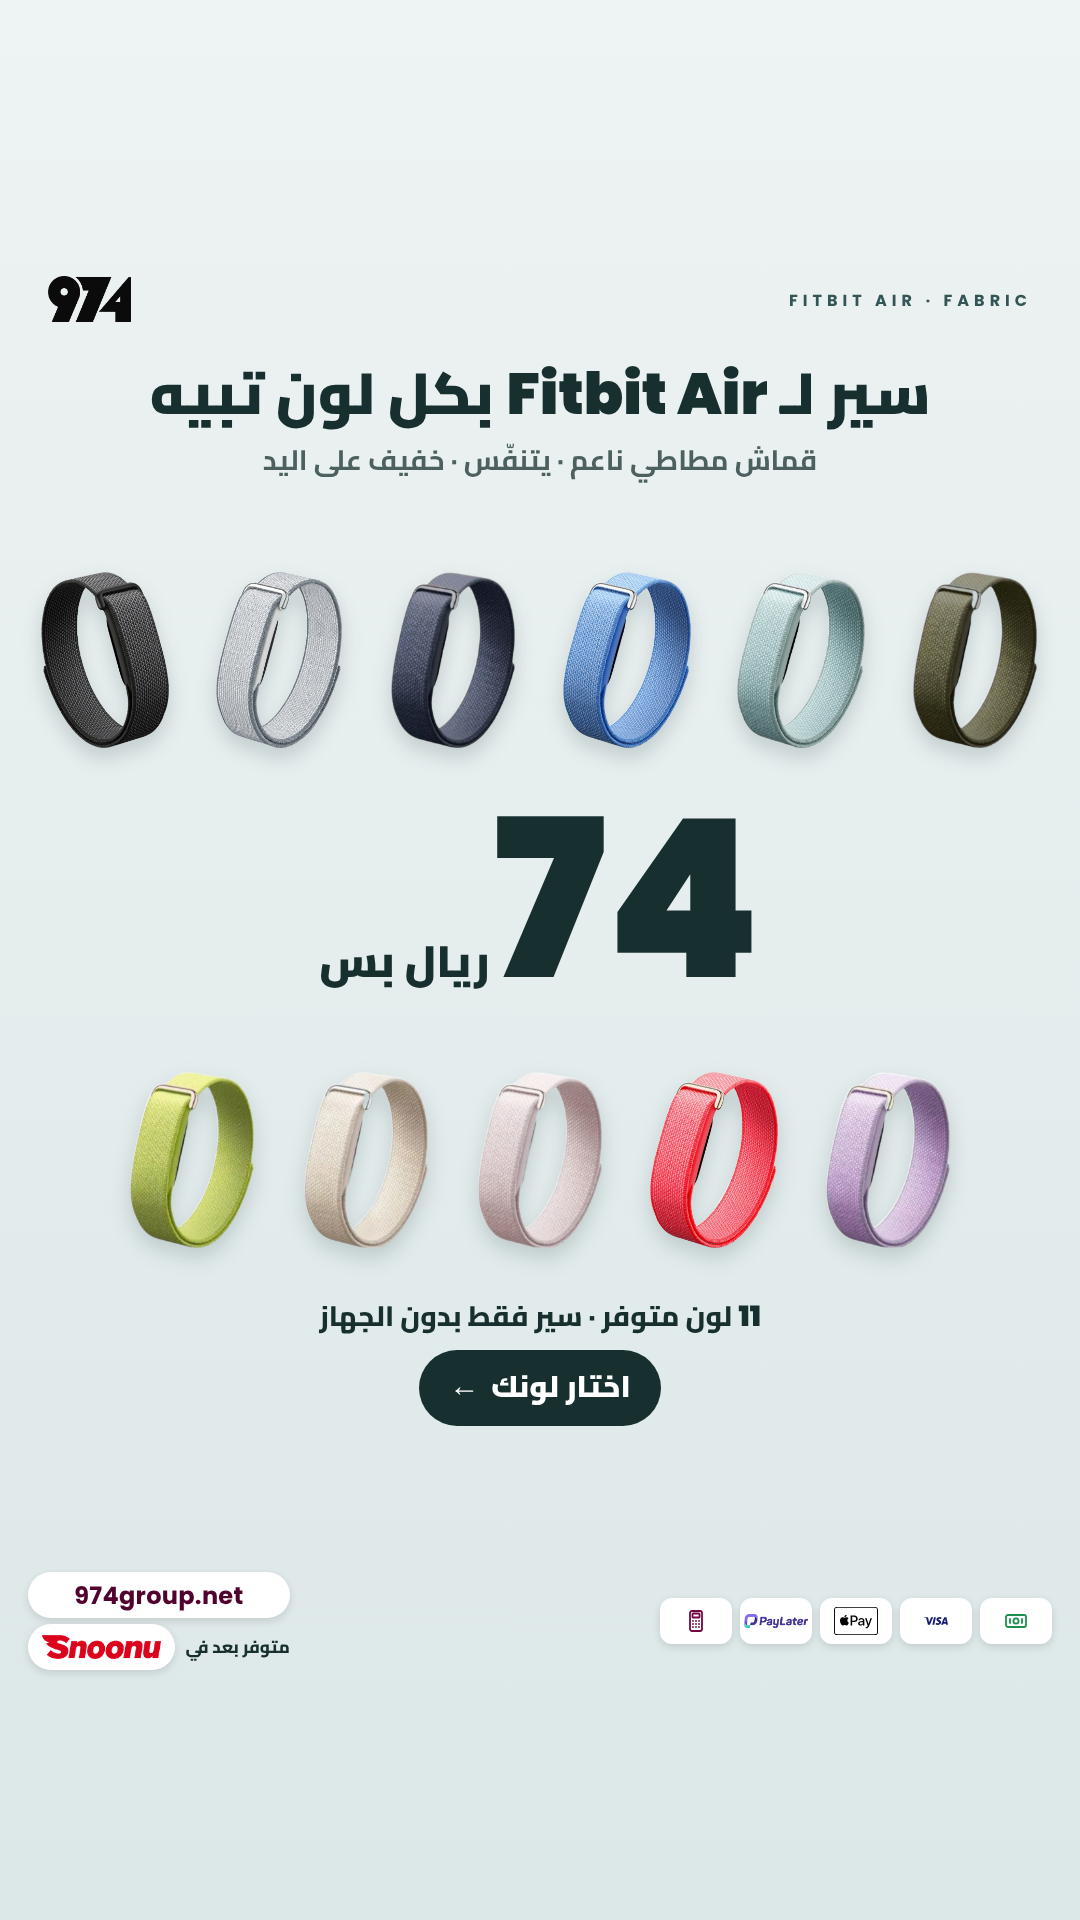
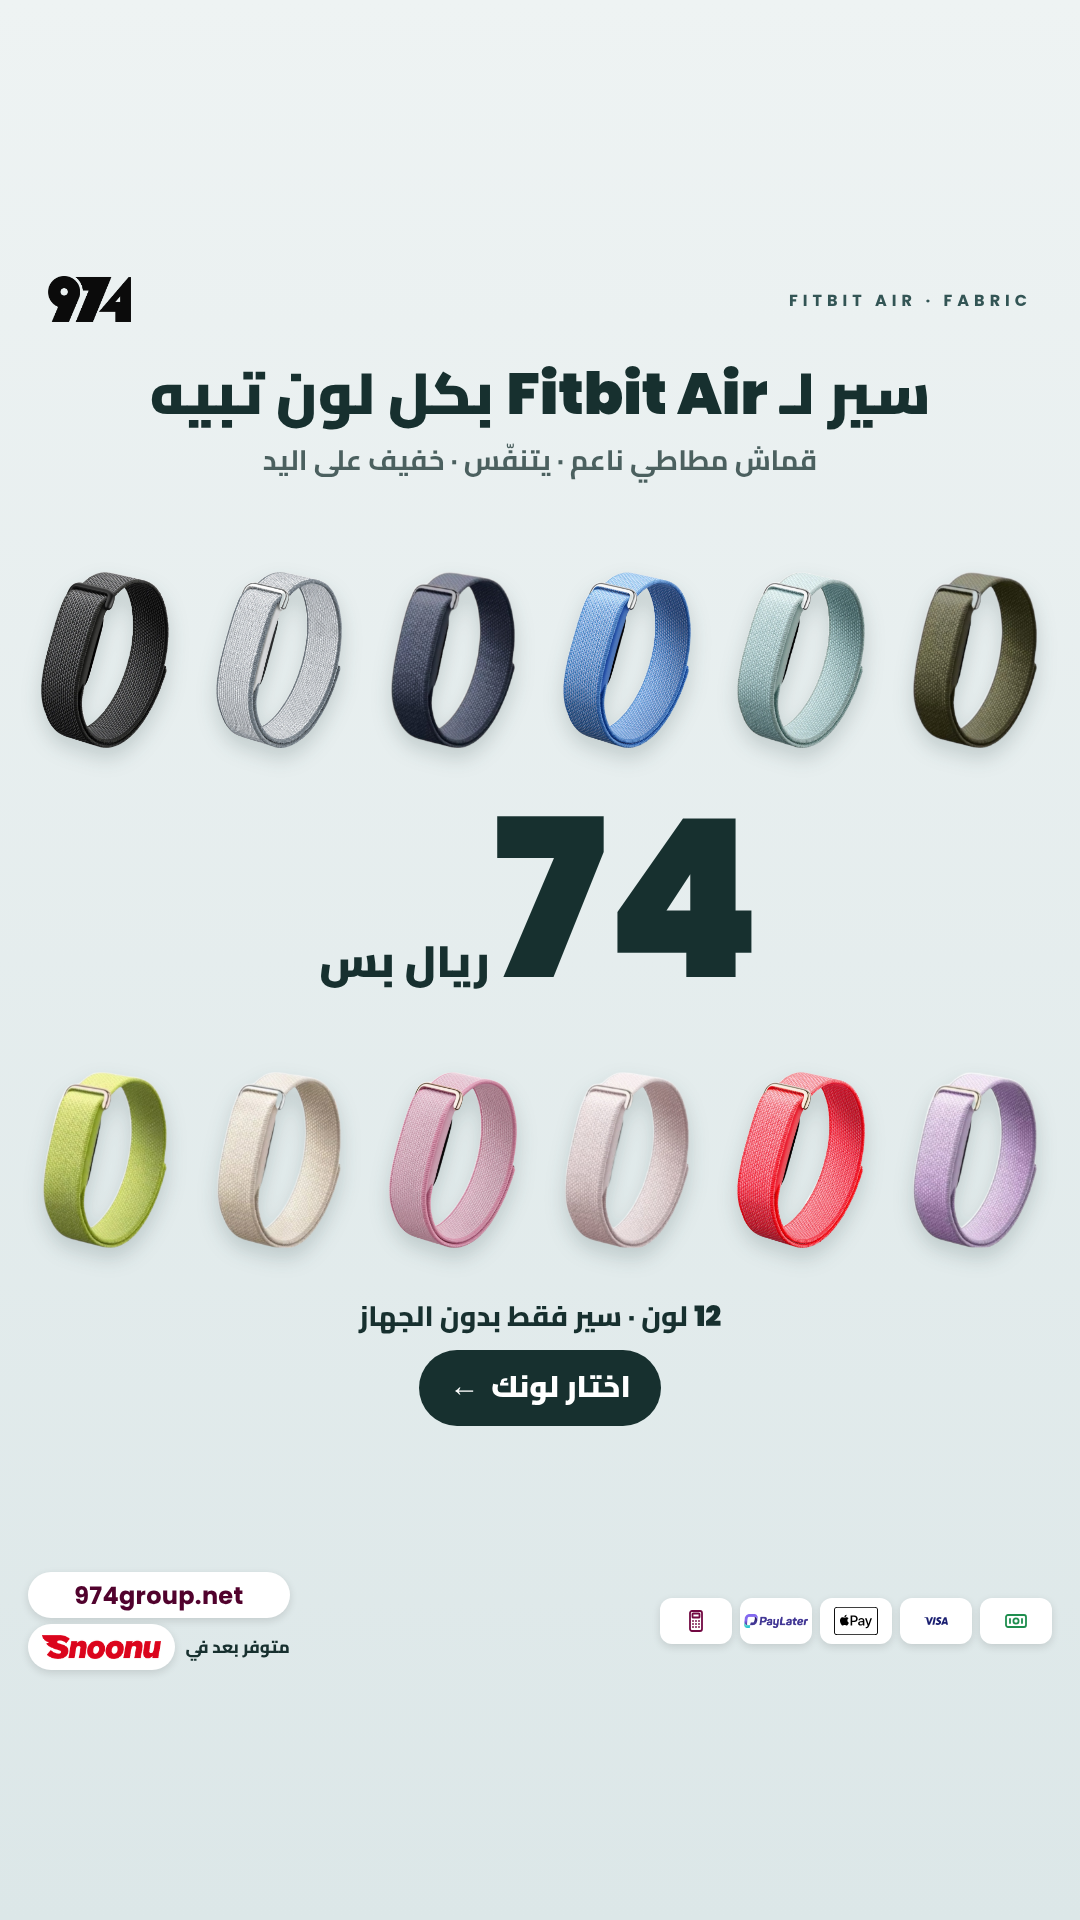
Fitbit ad: add blush pink, flip black
Claude-Session: https://claude.ai/code/session_01K6HDWNrArsGSJekW1VcEzV

Changed region(s): [[0.0306, 0.5312, 0.9778, 0.7188], [0.0306, 0.2812, 0.1528, 0.4062]]

diff --git a/posts/2026-11/ig-ads-best-sellers/out/974-ad-fitbit-story.html b/posts/2026-11/ig-ads-best-sellers/out/974-ad-fitbit-story.html
@@ -34,13 +34,13 @@ body{height:1920px!important;--o:230px} .pf{bottom:250px!important}</style></hea
   <div style="font-weight:900;font-size:58px;line-height:1.15">سير لـ <span class="en">Fitbit Air</span> بكل لون تبيه</div>
   <div style="font-weight:700;font-size:28px;opacity:.75;margin-top:6px">قماش مطاطي ناعم · يتنفّس · خفيف على اليد</div>
 </div>
-<div class="abs rw" style="top:330px"><img src="file:///home/claude/974-social/posts/2026-11/ig-ads-best-sellers/fitbit-trim/black.png"><img src="file:///home/claude/974-social/posts/2026-11/ig-ads-best-sellers/fitbit-trim/grey.png"><img src="file:///home/claude/974-social/posts/2026-11/ig-ads-best-sellers/fitbit-trim/navy.png"><img src="file:///home/claude/974-social/posts/2026-11/ig-ads-best-sellers/fitbit-trim/blue.png"><img src="file:///home/claude/974-social/posts/2026-11/ig-ads-best-sellers/fitbit-trim/fog.png"><img src="file:///home/claude/974-social/posts/2026-11/ig-ads-best-sellers/fitbit-trim/olive.png"></div>
+<div class="abs rw" style="top:330px"><img src="file:///home/claude/974-social/posts/2026-11/ig-ads-best-sellers/fitbit-trim/black-L.png"><img src="file:///home/claude/974-social/posts/2026-11/ig-ads-best-sellers/fitbit-trim/grey.png"><img src="file:///home/claude/974-social/posts/2026-11/ig-ads-best-sellers/fitbit-trim/navy.png"><img src="file:///home/claude/974-social/posts/2026-11/ig-ads-best-sellers/fitbit-trim/blue.png"><img src="file:///home/claude/974-social/posts/2026-11/ig-ads-best-sellers/fitbit-trim/fog.png"><img src="file:///home/claude/974-social/posts/2026-11/ig-ads-best-sellers/fitbit-trim/olive.png"></div>
 <div class="abs" style="left:0;right:0;top:560px;text-align:center;color:#17302F;direction:rtl">
   <span class="en" style="font-weight:900;font-size:220px;line-height:1;letter-spacing:-6px">74</span>
   <span style="font-weight:900;font-size:44px">ريال بس</span>
 </div>
-<div class="abs rw" style="top:830px"><img src="file:///home/claude/974-social/posts/2026-11/ig-ads-best-sellers/fitbit-trim/lime.png"><img src="file:///home/claude/974-social/posts/2026-11/ig-ads-best-sellers/fitbit-trim/beige.png"><img src="file:///home/claude/974-social/posts/2026-11/ig-ads-best-sellers/fitbit-trim/light-pink.png"><img src="file:///home/claude/974-social/posts/2026-11/ig-ads-best-sellers/fitbit-trim/pinky-red.png"><img src="file:///home/claude/974-social/posts/2026-11/ig-ads-best-sellers/fitbit-trim/purple.png"></div>
-<div class="abs" style="left:0;right:0;top:1060px;text-align:center;direction:rtl;font-weight:800;font-size:28px;color:#17302F"><span class="en">11</span> لون متوفر · سير فقط بدون الجهاز</div>
+<div class="abs rw" style="top:830px"><img src="file:///home/claude/974-social/posts/2026-11/ig-ads-best-sellers/fitbit-trim/lime.png"><img src="file:///home/claude/974-social/posts/2026-11/ig-ads-best-sellers/fitbit-trim/beige.png"><img src="file:///home/claude/974-social/posts/2026-11/ig-ads-best-sellers/fitbit-trim/blush.png"><img src="file:///home/claude/974-social/posts/2026-11/ig-ads-best-sellers/fitbit-trim/light-pink.png"><img src="file:///home/claude/974-social/posts/2026-11/ig-ads-best-sellers/fitbit-trim/pinky-red.png"><img src="file:///home/claude/974-social/posts/2026-11/ig-ads-best-sellers/fitbit-trim/purple.png"></div>
+<div class="abs" style="left:0;right:0;top:1060px;text-align:center;direction:rtl;font-weight:800;font-size:28px;color:#17302F"><span class="en">12</span> لون · سير فقط بدون الجهاز</div>
 <div class="abs" style="left:0;right:0;top:1120px;text-align:center"><div class="cta" style="background:#17302F;color:#fff">اختار لونك <span style="font-family:Poppins">←</span></div></div></div><div class="pf"><div class="payfoot"><div class="pills">
 <div class="ch"><div class="lg"><svg viewBox="0 0 24 24" style="height:54px" fill="none" stroke="#1E8E4E" stroke-width="1.8" stroke-linecap="round" stroke-linejoin="round"><rect x="2" y="6" width="20" height="12" rx="2"/><circle cx="12" cy="12" r="2.6"/><path d="M6 10v4M18 10v4"/></svg></div><i>كاش</i></div>
 <div class="ch"><div class="lg"><svg fill="#1A1F71" style="height:120px;width:150px" xmlns="http://www.w3.org/2000/svg" viewBox="0 0 24 24"><path d="M9.112 8.262 5.97 15.758H3.92L2.374 9.775c-.094-.368-.175-.503-.461-.658C1.447 8.864.677 8.627 0 8.479l.046-.217h3.3a.904.904 0 0 1 .894.764l.817 4.338 2.018-5.102zm8.033 5.049c.008-1.979-2.736-2.088-2.717-2.972.006-.269.262-.555.822-.628a3.66 3.66 0 0 1 1.913.336l.34-1.59a5.2 5.2 0 0 0-1.814-.333c-1.917 0-3.266 1.02-3.278 2.479-.012 1.079.963 1.68 1.698 2.04.756.367 1.01.603 1.006.931-.005.504-.602.725-1.16.734-.975.015-1.54-.263-1.992-.473l-.351 1.642c.453.208 1.289.39 2.156.398 2.037 0 3.37-1.006 3.377-2.564m5.061 2.447H24l-1.565-7.496h-1.656a.88.88 0 0 0-.826.55l-2.909 6.946h2.036l.405-1.12h2.488zm-2.163-2.656 1.02-2.815.588 2.815zm-8.16-4.84-1.603 7.496H8.34l1.605-7.496z"/></svg></div><i>Visa</i></div>

diff --git a/posts/2026-11/ig-ads-best-sellers/out/974-ad-fitbit.html b/posts/2026-11/ig-ads-best-sellers/out/974-ad-fitbit.html
@@ -34,13 +34,13 @@ body{--o:0px}</style></head><body>
   <div style="font-weight:900;font-size:58px;line-height:1.15">سير لـ <span class="en">Fitbit Air</span> بكل لون تبيه</div>
   <div style="font-weight:700;font-size:28px;opacity:.75;margin-top:6px">قماش مطاطي ناعم · يتنفّس · خفيف على اليد</div>
 </div>
-<div class="abs rw" style="top:330px"><img src="file:///home/claude/974-social/posts/2026-11/ig-ads-best-sellers/fitbit-trim/black.png"><img src="file:///home/claude/974-social/posts/2026-11/ig-ads-best-sellers/fitbit-trim/grey.png"><img src="file:///home/claude/974-social/posts/2026-11/ig-ads-best-sellers/fitbit-trim/navy.png"><img src="file:///home/claude/974-social/posts/2026-11/ig-ads-best-sellers/fitbit-trim/blue.png"><img src="file:///home/claude/974-social/posts/2026-11/ig-ads-best-sellers/fitbit-trim/fog.png"><img src="file:///home/claude/974-social/posts/2026-11/ig-ads-best-sellers/fitbit-trim/olive.png"></div>
+<div class="abs rw" style="top:330px"><img src="file:///home/claude/974-social/posts/2026-11/ig-ads-best-sellers/fitbit-trim/black-L.png"><img src="file:///home/claude/974-social/posts/2026-11/ig-ads-best-sellers/fitbit-trim/grey.png"><img src="file:///home/claude/974-social/posts/2026-11/ig-ads-best-sellers/fitbit-trim/navy.png"><img src="file:///home/claude/974-social/posts/2026-11/ig-ads-best-sellers/fitbit-trim/blue.png"><img src="file:///home/claude/974-social/posts/2026-11/ig-ads-best-sellers/fitbit-trim/fog.png"><img src="file:///home/claude/974-social/posts/2026-11/ig-ads-best-sellers/fitbit-trim/olive.png"></div>
 <div class="abs" style="left:0;right:0;top:560px;text-align:center;color:#17302F;direction:rtl">
   <span class="en" style="font-weight:900;font-size:220px;line-height:1;letter-spacing:-6px">74</span>
   <span style="font-weight:900;font-size:44px">ريال بس</span>
 </div>
-<div class="abs rw" style="top:830px"><img src="file:///home/claude/974-social/posts/2026-11/ig-ads-best-sellers/fitbit-trim/lime.png"><img src="file:///home/claude/974-social/posts/2026-11/ig-ads-best-sellers/fitbit-trim/beige.png"><img src="file:///home/claude/974-social/posts/2026-11/ig-ads-best-sellers/fitbit-trim/light-pink.png"><img src="file:///home/claude/974-social/posts/2026-11/ig-ads-best-sellers/fitbit-trim/pinky-red.png"><img src="file:///home/claude/974-social/posts/2026-11/ig-ads-best-sellers/fitbit-trim/purple.png"></div>
-<div class="abs" style="left:0;right:0;top:1060px;text-align:center;direction:rtl;font-weight:800;font-size:28px;color:#17302F"><span class="en">11</span> لون متوفر · سير فقط بدون الجهاز</div>
+<div class="abs rw" style="top:830px"><img src="file:///home/claude/974-social/posts/2026-11/ig-ads-best-sellers/fitbit-trim/lime.png"><img src="file:///home/claude/974-social/posts/2026-11/ig-ads-best-sellers/fitbit-trim/beige.png"><img src="file:///home/claude/974-social/posts/2026-11/ig-ads-best-sellers/fitbit-trim/blush.png"><img src="file:///home/claude/974-social/posts/2026-11/ig-ads-best-sellers/fitbit-trim/light-pink.png"><img src="file:///home/claude/974-social/posts/2026-11/ig-ads-best-sellers/fitbit-trim/pinky-red.png"><img src="file:///home/claude/974-social/posts/2026-11/ig-ads-best-sellers/fitbit-trim/purple.png"></div>
+<div class="abs" style="left:0;right:0;top:1060px;text-align:center;direction:rtl;font-weight:800;font-size:28px;color:#17302F"><span class="en">12</span> لون · سير فقط بدون الجهاز</div>
 <div class="abs" style="left:0;right:0;top:1120px;text-align:center"><div class="cta" style="background:#17302F;color:#fff">اختار لونك <span style="font-family:Poppins">←</span></div></div></div><div class="pf"><div class="payfoot"><div class="pills">
 <div class="ch"><div class="lg"><svg viewBox="0 0 24 24" style="height:54px" fill="none" stroke="#1E8E4E" stroke-width="1.8" stroke-linecap="round" stroke-linejoin="round"><rect x="2" y="6" width="20" height="12" rx="2"/><circle cx="12" cy="12" r="2.6"/><path d="M6 10v4M18 10v4"/></svg></div><i>كاش</i></div>
 <div class="ch"><div class="lg"><svg fill="#1A1F71" style="height:120px;width:150px" xmlns="http://www.w3.org/2000/svg" viewBox="0 0 24 24"><path d="M9.112 8.262 5.97 15.758H3.92L2.374 9.775c-.094-.368-.175-.503-.461-.658C1.447 8.864.677 8.627 0 8.479l.046-.217h3.3a.904.904 0 0 1 .894.764l.817 4.338 2.018-5.102zm8.033 5.049c.008-1.979-2.736-2.088-2.717-2.972.006-.269.262-.555.822-.628a3.66 3.66 0 0 1 1.913.336l.34-1.59a5.2 5.2 0 0 0-1.814-.333c-1.917 0-3.266 1.02-3.278 2.479-.012 1.079.963 1.68 1.698 2.04.756.367 1.01.603 1.006.931-.005.504-.602.725-1.16.734-.975.015-1.54-.263-1.992-.473l-.351 1.642c.453.208 1.289.39 2.156.398 2.037 0 3.37-1.006 3.377-2.564m5.061 2.447H24l-1.565-7.496h-1.656a.88.88 0 0 0-.826.55l-2.909 6.946h2.036l.405-1.12h2.488zm-2.163-2.656 1.02-2.815.588 2.815zm-8.16-4.84-1.603 7.496H8.34l1.605-7.496z"/></svg></div><i>Visa</i></div>

diff --git a/posts/2026-11/ig-ads-best-sellers/gen.py b/posts/2026-11/ig-ads-best-sellers/gen.py
@@ -91,7 +91,7 @@ def goggles():
 # ---------- Fitbit fabric ----------
 def fitbit():
     F=os.path.dirname(os.path.abspath(__file__))+'/fitbit-trim/'
-    cols=['black','grey','navy','blue','fog','olive','lime','beige','light-pink','pinky-red','purple']
+    cols=['black-L','grey','navy','blue','fog','olive','lime','beige','blush','light-pink','pinky-red','purple']
     r1=''.join(f'<img src="file://{F}{c}.png">' for c in cols[:6]); r2=''.join(f'<img src="file://{F}{c}.png">' for c in cols[6:])
     body=f'''
 <div class="abs" style="inset:0;background:linear-gradient(180deg,#EEF3F3 0%,#DCE7E8 100%)"></div><!--/bk-->
@@ -107,7 +107,7 @@ def fitbit():
   <span style="font-weight:900;font-size:44px">ريال بس</span>
 </div>
 <div class="abs rw" style="top:830px">{r2}</div>
-<div class="abs" style="left:0;right:0;top:1060px;text-align:center;direction:rtl;font-weight:800;font-size:28px;color:#17302F"><span class="en">11</span> لون متوفر · سير فقط بدون الجهاز</div>
+<div class="abs" style="left:0;right:0;top:1060px;text-align:center;direction:rtl;font-weight:800;font-size:28px;color:#17302F"><span class="en">12</span> لون · سير فقط بدون الجهاز</div>
 <div class="abs" style="left:0;right:0;top:1120px;text-align:center">{cta('اختار لونك','#17302F','#fff')}</div>'''
     return doc('#E3ECEC','#17302F',body,extra=CTA_CSS+'.pf{bottom:24px} .rw{left:0;right:0;display:flex;justify-content:center;gap:4px} .rw img{width:170px;height:200px;object-fit:contain;padding:12px 6px;filter:drop-shadow(0 10px 10px rgba(20,50,50,.18))}')
 
